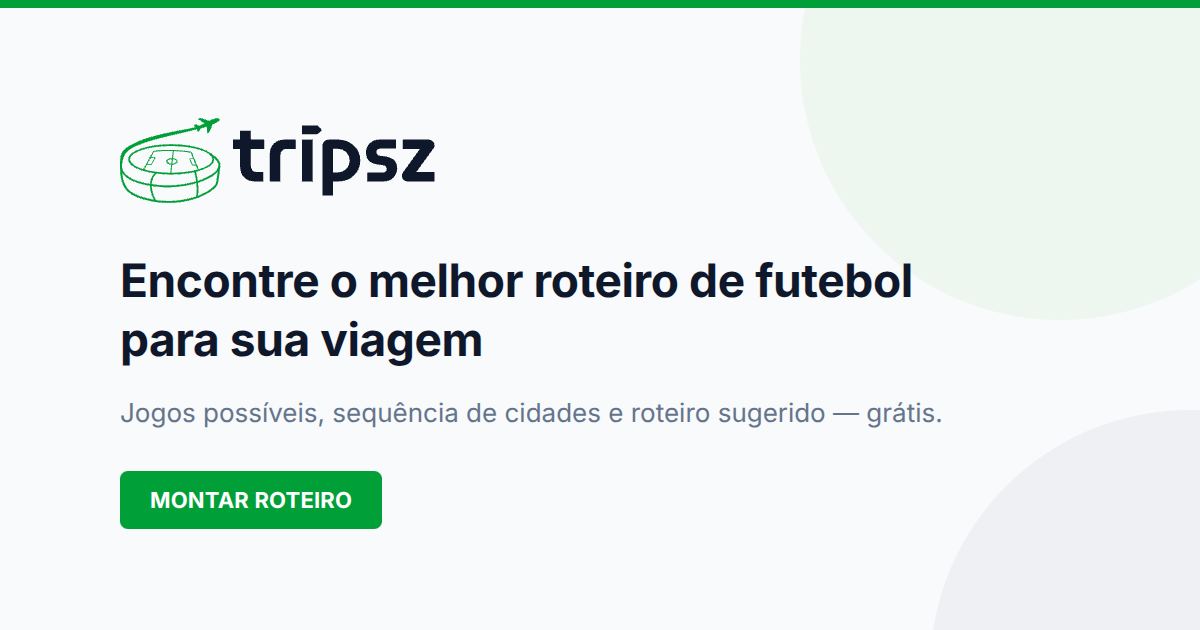
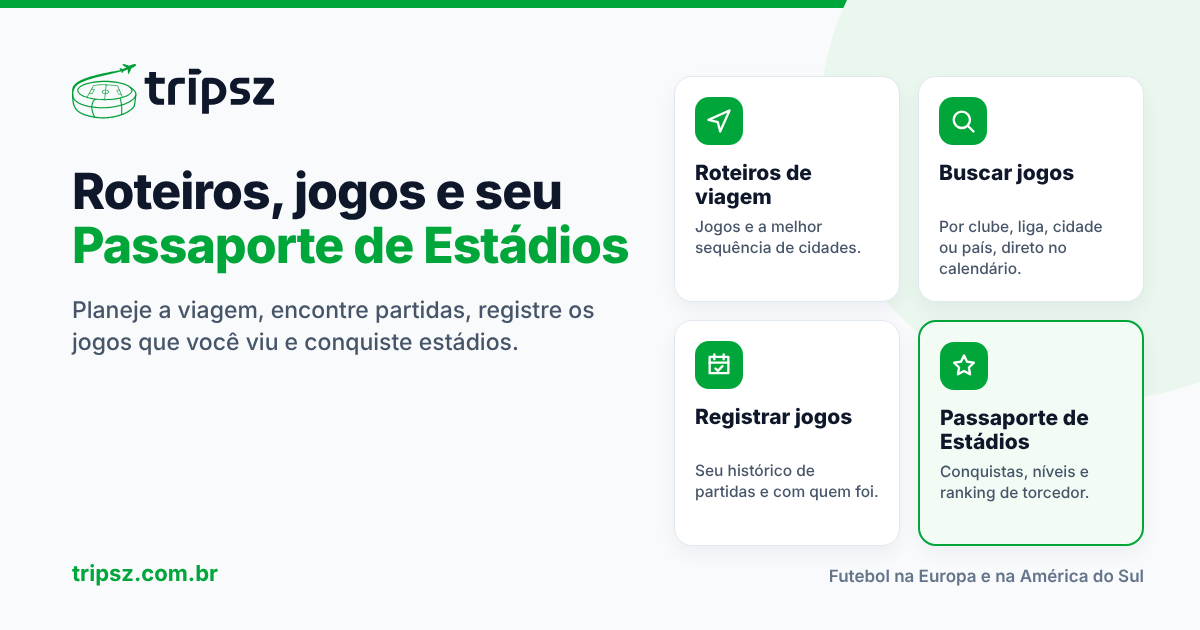
Imagem e textos de compartilhamento: roteiros, busca de jogos, registro de partidas e Passaporte de Estádios
Claude-Session: https://claude.ai/code/session_01Ker7bWuYE5i8kQ9sjnvRKQ

diff --git a/app/layout.js b/app/layout.js
@@ -6,22 +6,25 @@ export const metadata = {
   alternates: { canonical: "/" },
   robots: { index: true, follow: true },
   title: {
-    default: "tripsz — o melhor roteiro de futebol para sua viagem",
+    default: "tripsz — roteiros de futebol, busca de jogos e Passaporte de Estádios",
     template: "%s · tripsz",
   },
   description:
-    "Escolha países, datas e times: a tripsz cruza as partidas disponíveis e entrega os jogos possíveis e a melhor sequência de cidades para sua viagem. Grátis.",
+    "Monte roteiros de viagem para jogos de futebol, encontre partidas por clube, liga, cidade ou país, registre os jogos que você viu e conquiste estádios no seu Passaporte de Estádios. Grátis.",
   keywords: [
     "roteiro de futebol",
     "viagem para jogos de futebol",
     "groundhopping",
     "turismo esportivo",
+    "passaporte de estádios",
+    "buscar jogos de futebol",
+    "registrar jogos assistidos",
     "ingressos de futebol",
   ],
   openGraph: {
-    title: "tripsz — o melhor roteiro de futebol para sua viagem",
+    title: "tripsz — roteiros de futebol, busca de jogos e Passaporte de Estádios",
     description:
-      "Escolha países, datas e times: a tripsz cruza as partidas disponíveis e entrega os jogos possíveis e a melhor sequência de cidades para sua viagem.",
+      "Monte roteiros de viagem para jogos de futebol, encontre partidas por clube, liga, cidade ou país, registre os jogos que você viu e conquiste estádios no seu Passaporte de Estádios.",
     url: "/",
     siteName: "tripsz",
     locale: "pt_BR",
@@ -29,9 +32,9 @@ export const metadata = {
   },
   twitter: {
     card: "summary_large_image",
-    title: "tripsz — o melhor roteiro de futebol para sua viagem",
+    title: "tripsz — roteiros de futebol, busca de jogos e Passaporte de Estádios",
     description:
-      "Escolha países, datas e times: a tripsz cruza as partidas disponíveis e entrega os jogos possíveis e a melhor sequência de cidades para sua viagem.",
+      "Monte roteiros de viagem para jogos de futebol, encontre partidas por clube, liga, cidade ou país, registre os jogos que você viu e conquiste estádios no seu Passaporte de Estádios.",
   },
   // A partir daqui é o que faz o site virar um PWA de verdade — permite
   // "Adicionar à Tela de Início" no iPhone/Android com aparência de app
